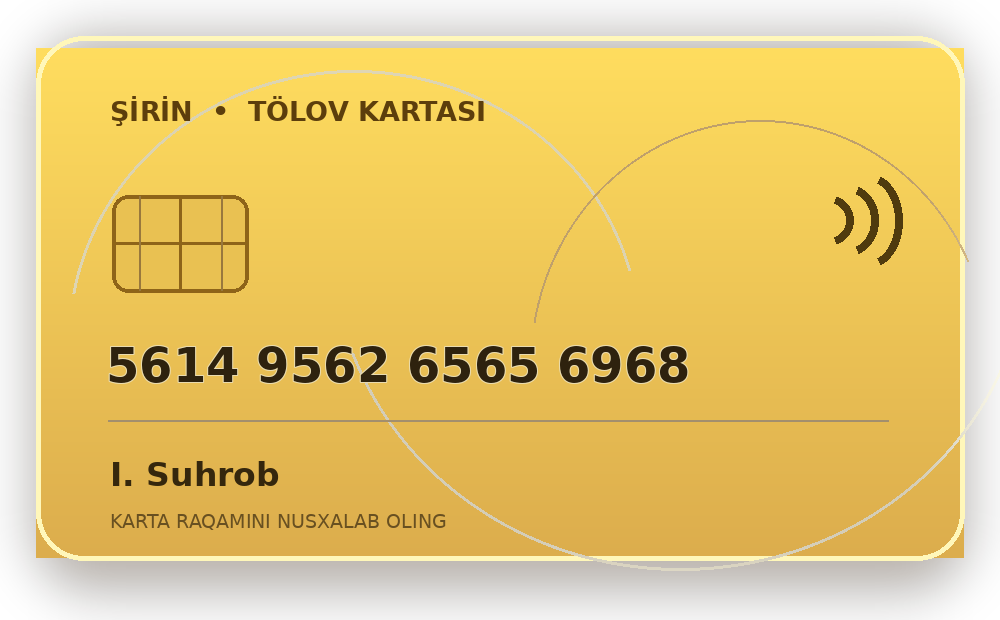
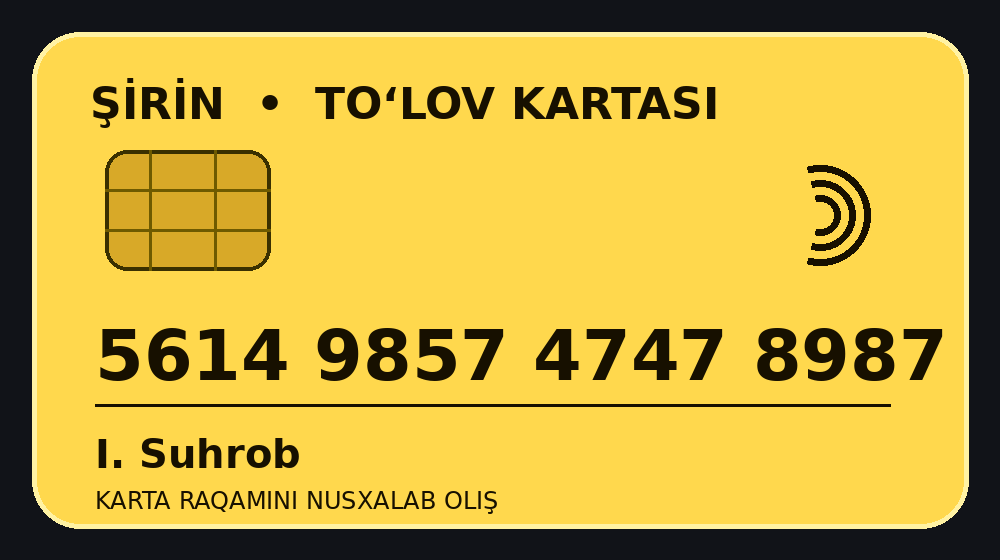
Send complete site orders and payment receipts to admin

diff --git a/bot/main.py b/bot/main.py
@@ -74,12 +74,12 @@ def order_details(order, username=None):
     if username:
         person+=f' (@{username}) 🇺🇿'
     payment=f'💳 Karta — {int(order.total):,} so‘m'.replace(',',' ') if order.payment=='card' else '💵 Naqd'
-    buyer=f'↗ (@{username}) 🇺🇿' if username else person
+    buyer=f'(@{username}) 🇺🇿' if username else person
     text=(f'🔔 YANGI BUYURTMA!\n\n'
-          f'{buyer}\n🆔 {order.telegram_id or "—"}\n\n'
+          f'👤 {buyer}\n🆔 {order.telegram_id or "—"}\n\n'
           f'🛒 Buyurtma:\n'+'\n'.join(lines)+
           f'\n\n💰 Jami: {int(order.total):,} so‘m'.replace(',',' ')+
-          f'\n📞 Telefon: {order.phone}\n📍 Manzil: {address}\n🗺 Xarita: {map_link}\n{payment}')
+          f'\n📞 Telefon: {order.phone}\n📍 Manzil: {address}\n🗺 Xarita: {map_link}\n💳 To‘lov: {payment}')
     if order.delivery_time:
         text+=f'\n🕒 Yetkazish: {new_uzbek_alphabet(order.delivery_time)}'
     if order.note:
@@ -427,19 +427,16 @@ async def receive_payment_receipt(message:Message,state:FSMContext):
     else:
         await message.answer('Iltimos, chekni rasm shaklida yuboring.')
         return
+    proof_text=new_uzbek_alphabet(order_details(order,message.from_user.username)+'\n\n🧾 Foydalanuvchi chek rasmi. To‘lovni tekshiring.')
+    keyboard=admin_order_keyboard(order.id,order.status)
     try:
         if media_kind=='photo':
-            await bot.send_photo(ADMIN_ID,uploaded_file_id,caption='🧾 Foydalanuvchi yuborgan chek rasmi')
+            await bot.send_photo(ADMIN_ID,uploaded_file_id,caption=proof_text,reply_markup=keyboard)
         else:
-            await bot.send_document(ADMIN_ID,uploaded_file_id,caption='🧾 Foydalanuvchi yuborgan chek rasmi')
+            await bot.send_document(ADMIN_ID,uploaded_file_id,caption=proof_text,reply_markup=keyboard)
     except Exception:
         await message.answer('Chek rasmi adminga yuborilmadi. Iltimos, qayta yuboring.')
         return
-    proof_text=new_uzbek_alphabet(order_details(order,message.from_user.username)+'\n\n🧾 Foydalanuvchi yuborgan chek rasmi. To‘lovni tekshiring.')
-    try:
-        await bot.send_message(ADMIN_ID,proof_text,reply_markup=admin_order_keyboard(order.id,order.status),disable_web_page_preview=True)
-    except Exception:
-        pass
     await state.clear()
     await message.answer('✅ Chekingiz adminga yuborildi. To‘lov tasdiqlanishini kuting.',reply_markup=main_menu())
 
